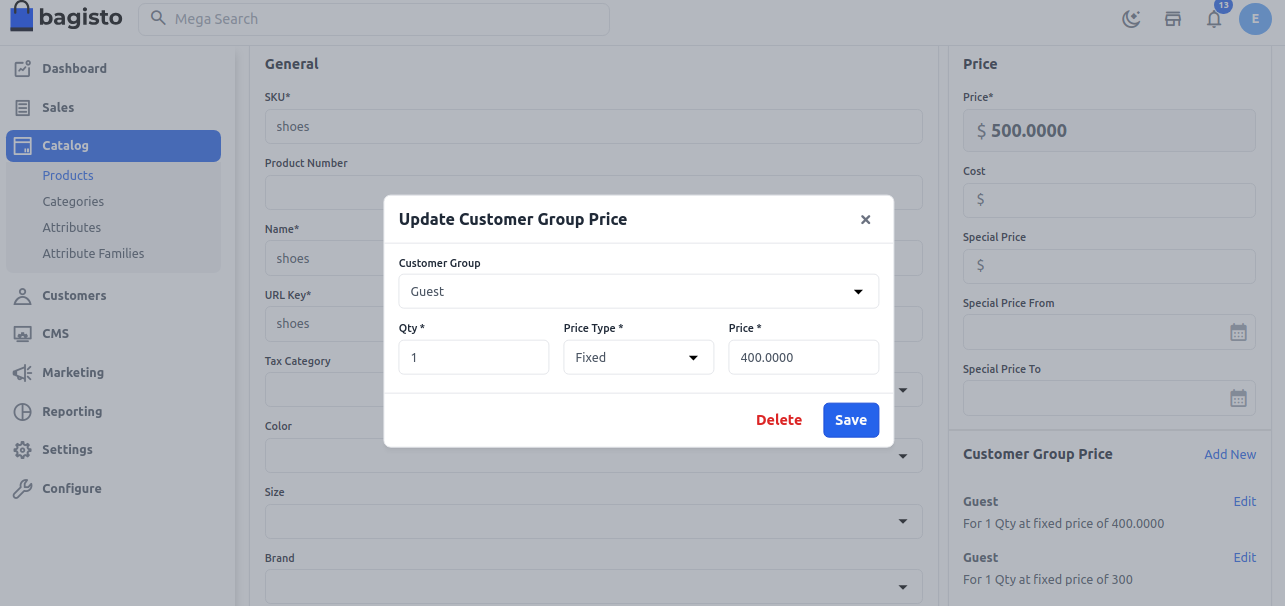
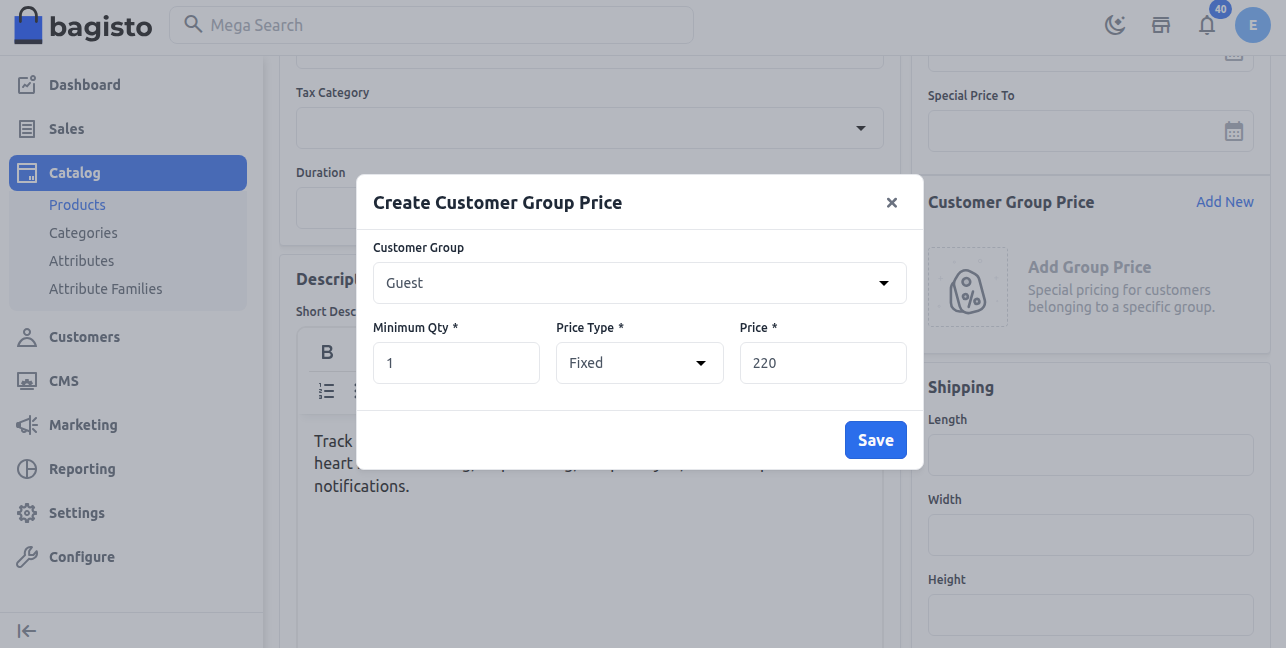
Multiple Customer Group Pricing Added

diff --git a/src/customer/customer-group-price.md b/src/customer/customer-group-price.md
@@ -1,5 +1,13 @@
 # Customer Group Price | Tier Pricing
 
+Customer Group Pricing in Bagisto allows store owners to offer different product prices to different customer groups — such as **General, Wholesale, or Guest**.
+
+This feature helps businesses create personalized pricing strategies, reward loyal buyers, and encourage bulk purchases. 
+
+By assigning customers to specific groups, you can control how much each group pays for the same product, making your pricing model more flexible and customer-focused.
+
+### Steps to Create a Customer Group Price in Bagisto
+
 **Step 1**: First, create the customer group and assign the group to the customer, or by default use groups like **General, Wholesale, or Guest**.
 
 **Step 2**: Login to the admin panel of Bagisto and go to **Catalog >> Products**. 
@@ -26,7 +34,7 @@ Create a new product and go to the product edit page. You will be able to see th
 
 Here I have set the fixed price of the product in the **Guest Customer group** with a minimum quantity of 1.  
 
-It means if you purchase 1 piece of this product at $500, then for guest users, the cost will be $400.  
+It means if you purchase one piece of this product at $2500, and a Customer Group Price is added at $220, then the cost will be $220 for a quantity of one.
 
 So now click on the **Save** button as shown below.  
 
@@ -37,3 +45,26 @@ Now save the product. You can see the price change according to the group.
 As set for the Guest group with the fixed price, it is showing the pricing according to the guest group as shown below.  
 
 <img src="/images/customer/priceOutput.png" alt="Group Price Output" />
+
+### Adding Multiple Customer Group Pricing
+
+You can also add multiple Customer Group Pricing options for different quantities or groups to encourage bulk purchases and offer better deals.
+
+For example, you can configure the following tier pricing structure:
+
+**Buy 2 for $400.00 each and save 55.56%**
+
+**Buy 3 for $350.00 each and save 61.11%**
+
+**Buy 4 for $200.00 each and save 77.78%**
+
+**Buy 5 for $150.00 each and save 83.33%**
+
+These pricing tiers can be added directly in the Customer Group Price section of the Admin Panel, as shown below:
+
+<img src="/images/customer/all-group-price.png" alt="Multiple Customer Group Pricing" />
+
+You can check the Storefront view to see how all the tiered customer pricing options appear together for the same product.
+
+<img src="/images/customer/priceOutput1.png" alt="Storefront Multiple Customer Group Pricing" />
+
